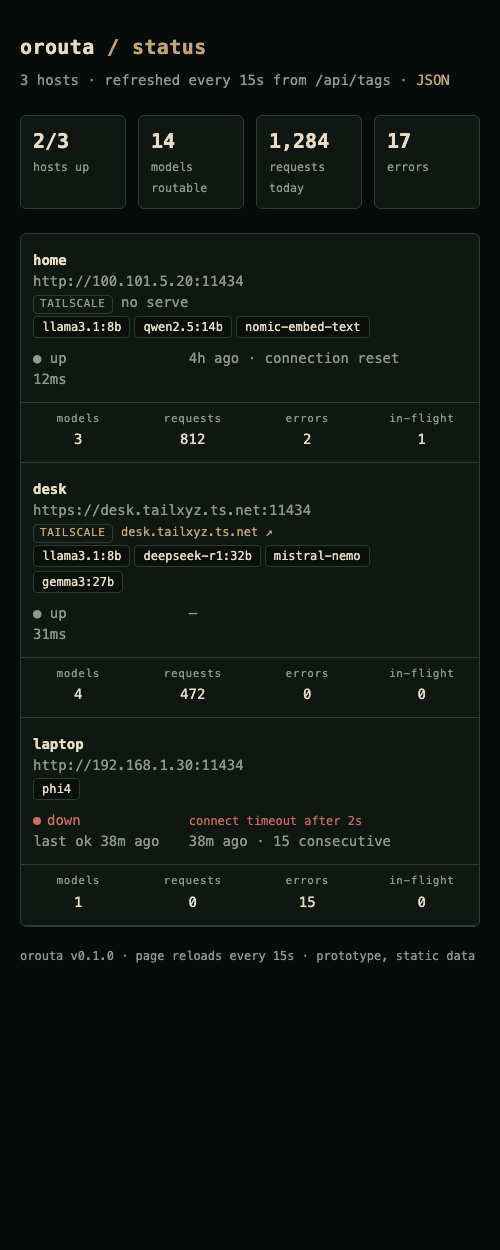
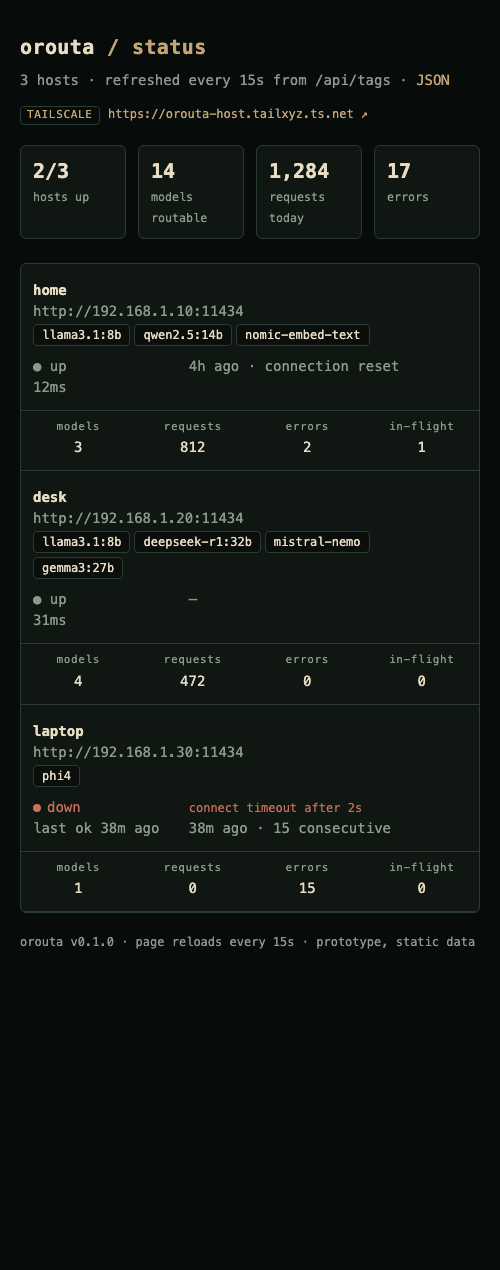
tailscale: self identity + url line, not per-host chips

diff --git a/prototypes/status.html b/prototypes/status.html
@@ -72,6 +72,7 @@
   .dot { display: inline-block; width: 8px; height: 8px; border-radius: 50%; margin-right: 6px; background: var(--ok); }
   .dot.down { background: var(--bad); }
   .err { color: var(--bad); font-size: 12px; }
+  .tsline { margin: -12px 0 20px; }
   .ts { display: inline-block; font-size: 11px; text-transform: uppercase; letter-spacing: 0.06em; color: var(--accent); border: 1px solid var(--line); border-radius: 4px; padding: 0 6px; }
   .ts.off { color: var(--muted); }
   .tslink { color: var(--accent); font-size: 12px; }
@@ -97,6 +98,7 @@
     <h1>orouta <span>/ status</span></h1>
   </header>
   <p class="sub">3 hosts &middot; refreshed every 15s from <code>/api/tags</code> &middot; <a href="/status.json">JSON</a></p>
+  <p class="tsline"><span class="ts">tailscale</span> <a class="tslink" href="https://orouta-host.tailxyz.ts.net">https://orouta-host.tailxyz.ts.net ↗</a></p>
 
   <div class="summary">
     <div class="stat"><b>2/3</b><small>hosts up</small></div>
@@ -119,7 +121,7 @@
     </thead>
     <tbody>
       <tr>
-        <td><b>home</b><br><span class="url">http://100.101.5.20:11434</span><br><span class="ts off">tailscale</span> <span class="url">no serve</span><br>
+        <td><b>home</b><br><span class="url">http://192.168.1.10:11434</span><br>
           <span class="model">llama3.1:8b</span><span class="model">qwen2.5:14b</span><span class="model">nomic-embed-text</span></td>
         <td><span class="up">&#9679; up</span><br><span class="url">12ms</span></td>
         <td class="num" data-label="models">3</td>
@@ -129,7 +131,7 @@
         <td><span class="url">4h ago &middot; connection reset</span></td>
       </tr>
       <tr>
-        <td><b>desk</b><br><span class="url">https://desk.tailxyz.ts.net:11434</span><br><span class="ts">tailscale</span> <a class="tslink" href="https://desk.tailxyz.ts.net">desk.tailxyz.ts.net ↗</a><br>
+        <td><b>desk</b><br><span class="url">http://192.168.1.20:11434</span><br>
           <span class="model">llama3.1:8b</span><span class="model">deepseek-r1:32b</span><span class="model">mistral-nemo</span><span class="model">gemma3:27b</span></td>
         <td><span class="up">&#9679; up</span><br><span class="url">31ms</span></td>
         <td class="num" data-label="models">4</td>

diff --git a/prototypes/status-tsoff.html b/prototypes/status-tsoff.html
@@ -6,15 +6,15 @@
 <title>orouta — status</title>
 <style>
   :root {
-    --bg: #f7f3e8;
-    --panel: #fffdf6;
-    --line: #ddd2b8;
-    --chip: #f1ead9;
-    --text: #2a3d34;
-    --muted: #6e7d70;
-    --accent: #9a7430;
-    --ok: #4d7d5c;
-    --bad: #b4462e;
+    --bg: #070b09;
+    --panel: #101612;
+    --line: #2a3d34;
+    --chip: #0a0f0c;
+    --text: #e8dcc4;
+    --muted: #8a9a8c;
+    --accent: #c4a574;
+    --ok: #8a9a8c;
+    --bad: #c96f5a;
   }
   @media (prefers-color-scheme: light) {
     :root {
@@ -98,7 +98,7 @@
     <h1>orouta <span>/ status</span></h1>
   </header>
   <p class="sub">3 hosts &middot; refreshed every 15s from <code>/api/tags</code> &middot; <a href="/status.json">JSON</a></p>
-  <p class="tsline"><span class="ts">tailscale</span> <a class="tslink" href="https://orouta-host.tailxyz.ts.net">https://orouta-host.tailxyz.ts.net ↗</a></p>
+  <p class="tsline"><span class="ts off">tailscale</span> <span class="url">no serve</span></p>
 
   <div class="summary">
     <div class="stat"><b>2/3</b><small>hosts up</small></div>
